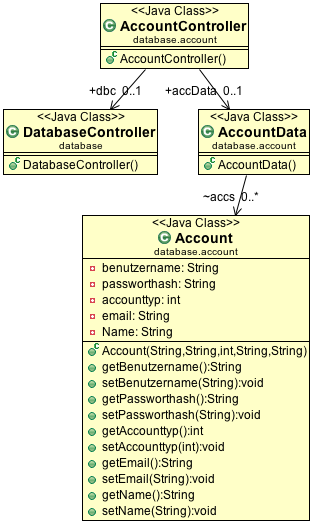
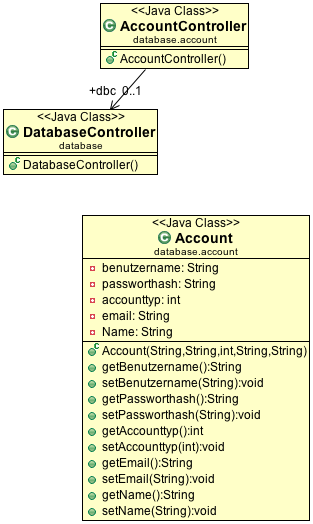
fix

Changed region(s): [[0.5176, 0.1221, 1.0, 0.4275]]

diff --git a/src/database/account/AccountController.java b/src/database/account/AccountController.java
@@ -4,5 +4,5 @@ import database.DatabaseController;
 
 public class AccountController {
 	public DatabaseController dbc;
-	public AccountData accData;
+
 }
